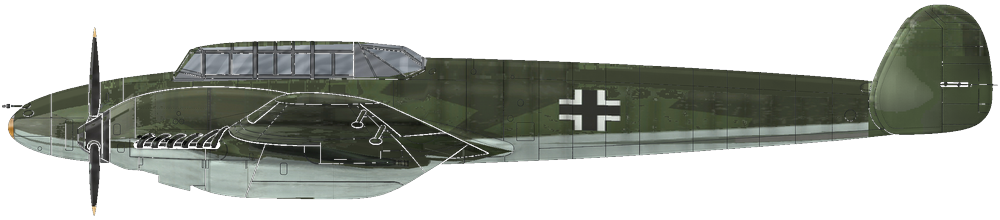
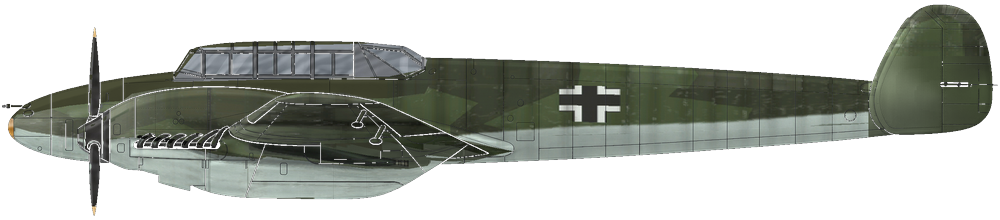
Bf 110 side views: mapped by the sheet's real islands, nothing decided by colour
The side was read from y 793, which is sheet background down to 808: green
blotches along a pale aeroplane. Background was then told from paint by
colour, and on an olive sheet that swapped real dark green camouflage for
the pale side colour. Now the top decking strip, the side face (y 810 to
the seam at 874) and the belly are each sampled inside their own island,
the wing root hole, nacelle notch and fin oval are handled by geometry,
and the side face is the middle 52% of the silhouette, from the cross
being square.

Claude-Session: https://claude.ai/code/session_01BAE9xGb5t5aTKcprx9FbY2

diff --git a/dev/build_lw_sideviews110.py b/dev/build_lw_sideviews110.py
@@ -63,22 +63,34 @@ def interp(x, pts):
     return np.interp(x, xs, ys)
 
 
-# The 110's fuselage is slab sided and the sheet treats it so: a top face,
-# the port side, a separate belly face (the pale band centred on y 907)
-# and the other side mirrored below that. A side view shows the SIDE face
-# only, y 793 down to its lower edge, which rises toward the tail as the
-# fuselage tapers. The Balkenkreuz, centred on y 831, sits mid-side, which
-# is where a 110 wears it. Read as one continuous unwrap (spine to belly
-# centreline) the first attempt drew half the belly onto the side.
-T_SIDE_TOP = 793.0
-# The side face is not the whole height of the side view. Mapped over all of
-# it the Balkenkreuz came out half as tall again as it was wide; a cross is
-# square, and that fixes the scale: the side face is the middle 64% of the
-# silhouette, and the rounded shoulders above and below it show the edge of
-# the top decking and of the belly, 23 texels of each.
-V_SIDE0, V_SIDE1, T_DECK = 0.18, 0.82, 23.0
+# THE FUSELAGE ON THE SHEET, read off Bf110_WN_Late where pale sides under a
+# dark top make every edge plain:
+#
+#   top decking   its own strip, y 766..782 from x 540 aft
+#   port side     y 810 down to the seam at y 874 (both edges close in a
+#                 little toward the tail); the Balkenkreuz is y 805..857 on it
+#   belly         carries on below the seam, pale
+#   between the decking strip and the side, y 785..808, is SHEET BACKGROUND
+#
+# Two earlier readings were wrong and Patrick saw both: taking the side from
+# y 793 sampled that strip of background along the whole upper fuselage (the
+# green blotches on a pale aeroplane), and telling background from paint by
+# COLOUR swapped real dark green camouflage for the pale side colour, because
+# the sheet is olive and so is the paint. Nothing here is decided by colour
+# any more; every sample is kept inside its island by geometry.
+#
+# The side face is not the whole silhouette either. The cross is square on
+# the aeroplane and 43.5 x 51.5 texels on the sheet, which fixes the vertical
+# scale: the side face is the middle 52% of the side view, with the rounded
+# top decking above it and the turn of the belly below.
+V_SIDE0, V_SIDE1 = 0.24, 0.76
+DECK0, DECK1, BELLY = 766.0, 782.0, 16.0
+def t_top(xt):
+    return np.interp(xt, [192, 575, 1024], [810.0, 810.0, 822.0])
 def t_low(xt):
-    return np.interp(xt, [192, 600, 704, 1024], [878.0, 876.0, 872.0, 850.0])
+    # aft of x 870 a grey strip of another island lies along y 865..873; the
+    # side stops short of it and the belly is read from below the seam
+    return np.interp(xt, [192, 712, 870, 1024], [874.0, 874.0, 862.0, 860.0])
 
 
 def tex_box_to_profile(box2048):
@@ -91,7 +103,8 @@ def tex_box_to_profile(box2048):
     Xc = X((l + r) / 2.0)
     top, bot = float(interp(Xc, TOP)), float(interp(Xc, BOT))
     low = float(t_low((l + r) / 2.0))
-    def Y(yt): return top + (V_SIDE0 + (V_SIDE1 - V_SIDE0) * (yt - T_SIDE_TOP) / (low - T_SIDE_TOP)) * (bot - top)
+    hi = float(t_top((l + r) / 2.0))
+    def Y(yt): return top + (V_SIDE0 + (V_SIDE1 - V_SIDE0) * (yt - hi) / (low - hi)) * (bot - top)
     return [int(round((X(l) - CROP[0]) * s + 2)), int(round((Y(t) - CROP[1]) * s + 2)),
             int(round((X(r) - CROP[0]) * s + 2)), int(round((Y(b) - CROP[1]) * s + 2))]
 
@@ -159,14 +172,19 @@ def build(skin, out, blank):
     top = interp(XX[0], TOP)[None, :].repeat(H, 0); bot = interp(XX[0], BOT)[None, :].repeat(H, 0)
     v = np.clip((YY - top) / np.maximum(bot - top, 1), 0, 1)
     xt = T_NOSE + (XX - X_NOSE) / SCALE_X
-    low = t_low(xt)
-    # The shoulder above the side face carries the side's own top edge up to
-    # the spine (mirrored a few texels), NOT the sheet above y 793: that is
-    # a different island, and sampling it drew pale streaks along the spine
-    # of every pale skin.
-    yt = np.where(v < V_SIDE0, T_SIDE_TOP + (V_SIDE0 - v) / V_SIDE0 * 8.0,
-         np.where(v < V_SIDE1, T_SIDE_TOP + (v - V_SIDE0) / (V_SIDE1 - V_SIDE0) * (low - T_SIDE_TOP),
-                  low + (v - V_SIDE1) / (1 - V_SIDE1) * T_DECK))
+    low = t_low(xt); hi = t_top(xt)
+    side_y = hi + (v - V_SIDE0) / (V_SIDE1 - V_SIDE0) * (low - hi)
+    # the wing root is a hole in the side island (x 345..605, y 830 down):
+    # almost all of it is behind the nacelle, and what is not takes the side
+    # just above the hole
+    side_y = np.where((xt > 345) & (xt < 605) & (side_y > 828), 826.0, side_y)
+    yt = np.where(v < V_SIDE0, DECK0 + v / V_SIDE0 * (DECK1 - DECK0),
+         np.where(v < V_SIDE1, side_y, 880.0 + (v - V_SIDE1) / (1 - V_SIDE1) * BELLY))
+    # the decking strip starts at x 540 (forward of that the sheet holds the
+    # cockpit framing); the nose ahead of the canopy takes the decking's colour
+    # from its front end
+    deck = v < V_SIDE0
+    xt = np.where(deck, np.maximum(xt, 545.0), xt)
 
     nac = skin_m & poly_mask((W, H), NACELLE)
     wing = skin_m & poly_mask((W, H), WING)
@@ -181,27 +199,25 @@ def build(skin, out, blank):
     nv = np.clip((YY - nt) / np.maximum(nb - nt, 1), 0, 1)
     n_x = np.interp(nv, [0, 0.59, 1.0], [165.0, 98.0, 10.0])
     n_y = 442 + np.clip((XX - 340) / (1180 - 340), 0, 1) * (748 - 442)
+    # the island has a notch cut out of it beside the exhaust slot at the front
+    n_x = np.where((n_y < 476) & (n_x > 56) & (n_x < 97), 50.0, n_x)
     xt = np.where(nac, n_x, xt); yt = np.where(nac, n_y, yt)
     # wing: what shows in a side view is the tip end-on and the upper skin
     uu = np.clip((XX - 625) / (1295 - 625), 0, 1); ss = np.clip((YY - 318) / (470 - 318), 0, 1)
     xt = np.where(wing, 430 - ss * 200, xt); yt = np.where(wing, 272 + uu * (392 - 272), yt)
     # fin and rudder: box to box
     bx0, by0, bx1, by1 = FIN_BLANK
-    xt = np.where(fin, fx0 + (XX - bx0) / (bx1 - bx0) * (fx1 - fx0), xt)
-    yt = np.where(fin, fy0 + (YY - by0) / (by1 - by0) * (fy1 - fy0), yt)
+    f_x = fx0 + (XX - bx0) / (bx1 - bx0) * (fx1 - fx0); f_y = fy0 + (YY - by0) / (by1 - by0) * (fy1 - fy0)
+    # the fin island is an oval in its box; a sample outside it is pulled in
+    # along the line to the centre, so the corners never read the sheet
+    fcx, fcy, frx, fry = (fx0 + fx1) / 2.0, (fy0 + fy1) / 2.0, (fx1 - fx0) / 2.0 * 0.90, (fy1 - fy0) / 2.0 * 0.90
+    rr = np.sqrt(((f_x - fcx) / frx) ** 2 + ((f_y - fcy) / fry) ** 2)
+    k = np.where(rr > 1, 1 / np.maximum(rr, 1e-6), 1.0)
+    f_x = fcx + (f_x - fcx) * k; f_y = fcy + (f_y - fcy) * k
+    xt = np.where(fin, f_x, xt); yt = np.where(fin, f_y, yt)
 
     xi = np.clip(xt, 0, 1023).astype(int); yi = np.clip(yt, 0, 1023).astype(int)
     col = T[yi, xi]
-    # a sample that fell on the sheet's background is not paint
-    bgc = T[700, 520]
-    sidec = np.median(T[810:860, 620:700].reshape(-1, 3), axis=0)
-    finc = np.median(T[440:470, 600:640].reshape(-1, 3), axis=0)
-    topc = np.median(T[300:380, 250:420].reshape(-1, 3), axis=0)
-    onbg = np.abs(col - bgc).sum(axis=2) < 14
-    col[onbg & (body | nac)] = sidec
-    col[onbg & fin] = finc
-    col[onbg & wing] = topc
-
     outp = B.copy()
     m = body | nac | wing | fin
     outp[m] = np.clip(col[m] * shade[m], 0, 255)
